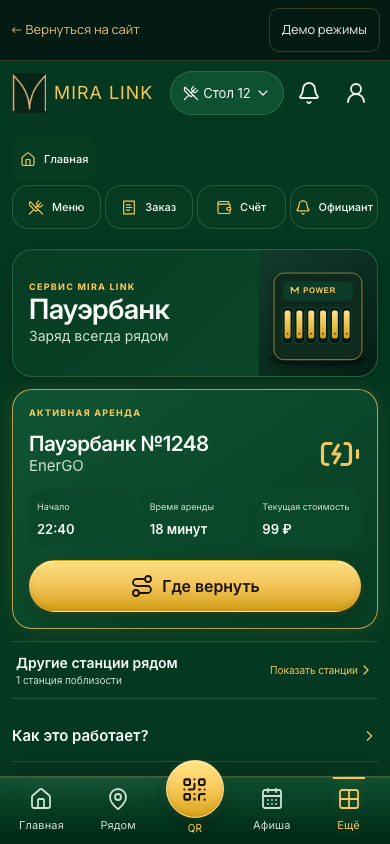
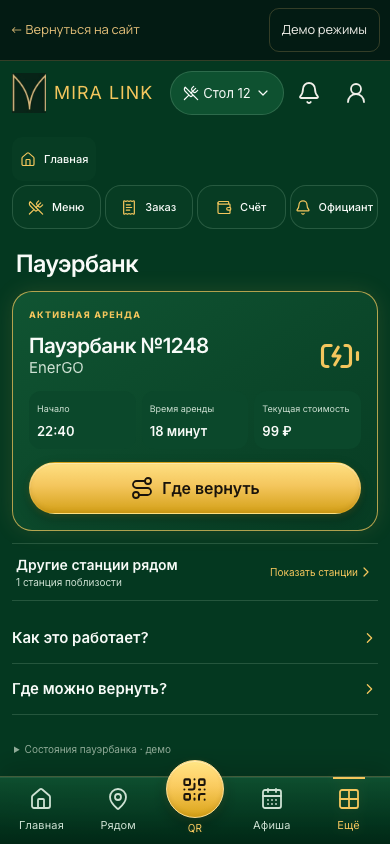
Remove Powerbank hero card

diff --git a/components/guest/guest-powerbank-service.module.css b/components/guest/guest-powerbank-service.module.css
@@ -1,7 +1,6 @@
 .screen{display:grid;min-width:0;gap:12px;color:var(--guest-text-primary)}
 .screen :is(h2,h3,p){margin:0}.screen button{font-family:inherit}.loading{min-height:180px;display:grid;place-items:center;color:var(--guest-text-secondary)}
-.hero{display:grid;grid-template-columns:minmax(0,1fr) 118px;min-height:126px;align-items:center;overflow:hidden;border:1px solid var(--guest-border);border-radius:20px;background:linear-gradient(135deg,var(--guest-surface),var(--guest-surface-soft));box-shadow:var(--card-shadow)}
-.hero>div{padding:16px}.hero span,.stateLabel,.contextLabel{display:block;color:var(--guest-accent);font-size:9px;line-height:13px;font-weight:750;letter-spacing:.14em}.hero h2{font-size:28px;line-height:33px}.hero p{color:var(--guest-text-secondary);font-size:14px}.hero img{width:118px;height:126px;object-fit:cover}
+.pageTitle{padding:0 4px}.pageTitle h2{font-size:24px;line-height:30px}.stateLabel,.contextLabel{display:block;color:var(--guest-accent);font-size:9px;line-height:13px;font-weight:750;letter-spacing:.14em}
 .context{display:flex;min-height:52px;align-items:center;justify-content:space-between;gap:12px;padding:2px 4px}.context>div{display:grid}.context>div>span,.context small{color:var(--guest-text-secondary);font-size:11px}.context>div>strong{font-size:16px}.context>span{display:flex;align-items:center;gap:5px;color:var(--guest-accent);font-size:12px;white-space:nowrap}.context svg{width:16px}
 .offers{display:grid;gap:10px}.offer{display:grid;grid-template-columns:100px minmax(0,1fr);min-height:166px;overflow:hidden;border:1px solid var(--guest-border);border-radius:18px;background:var(--guest-surface)}.offer>img{width:100px;height:100%;object-fit:cover}.offerBody{display:grid;min-width:0;gap:7px;padding:11px}.offerHeading{display:flex;align-items:start;justify-content:space-between;gap:8px}.offerHeading>div{display:grid;min-width:0}.offerHeading strong{font-size:17px}.offerHeading span{color:var(--guest-text-muted);font-size:10px}.offerHeading em{flex:0 0 auto;padding:3px 6px;border:1px solid var(--guest-border-strong);border-radius:999px;color:var(--guest-accent);font-size:8px;font-style:normal}.offerBody>p{display:flex;align-items:center;gap:4px;color:var(--guest-text-secondary);font-size:11px;line-height:15px}.offerBody>p svg{width:14px}.availability{display:flex;align-items:end;justify-content:space-between;gap:8px}.availability>span{display:flex;align-items:center;gap:3px;color:var(--guest-text-secondary);font-size:10px}.availability>span:last-child{display:grid;text-align:right}.availability strong{color:var(--guest-text-primary);font-size:14px}.availability small{color:var(--guest-text-muted);font-size:9px}.availability svg{width:14px;color:var(--guest-accent)}.offerBody>button{min-height:44px!important;padding-block:6px!important;font-size:13px!important}
 .actionRow{display:flex;width:100%;min-height:58px;align-items:center;justify-content:space-between;gap:12px;padding:8px 4px;border:0;border-block:1px solid var(--guest-border);border-radius:0;color:var(--guest-text-primary);background:transparent;text-align:left}.actionRow>span:first-child{display:grid}.actionRow strong{font-size:14px}.actionRow small{color:var(--guest-text-secondary);font-size:10px}.actionRow>span:last-child{display:flex;align-items:center;color:var(--guest-accent);font-size:10px;white-space:nowrap}.actionRow svg{width:16px}
@@ -12,4 +11,4 @@
 .demoTools{padding:0 2px;color:var(--guest-text-muted)}.demoTools summary{min-height:44px;align-content:center;cursor:pointer;font-size:10px}.demoTools label{display:grid;gap:5px;padding-bottom:10px;font-size:10px}.demoTools select{min-height:44px;border:1px solid var(--guest-border);border-radius:12px;padding:8px;color:var(--guest-text-primary);background:var(--guest-surface)}
 .confirmation{display:grid;gap:12px}.confirmation>img{width:100%;height:132px;object-fit:cover;border-radius:14px}.confirmation>div{display:grid}.confirmation>div>span,.confirmation small{color:var(--guest-text-secondary);font-size:11px}.confirmation>div>strong{font-size:18px}.confirmation>p{display:flex;align-items:flex-start;gap:7px;padding:10px;border-radius:12px;background:var(--guest-surface-soft);color:var(--guest-text-secondary);font-size:11px;line-height:16px}.confirmation>p svg{width:18px;flex:0 0 18px;color:var(--guest-accent)}.confirmation>button{width:100%}
 .nearbyList{display:grid;gap:8px}.nearbyList article{display:grid;grid-template-columns:36px minmax(0,1fr) auto;align-items:center;gap:8px;padding:10px;border:1px solid var(--guest-border);border-radius:14px;background:var(--guest-surface)}.nearbyList article>svg{width:22px;color:var(--guest-accent)}.nearbyList article>div{display:grid}.nearbyList span{color:var(--guest-text-secondary);font-size:10px}.nearbyList article>span:last-child{white-space:nowrap}
-@container guest-product-surface (max-width:380px){.hero{grid-template-columns:minmax(0,1fr) 104px}.hero img{width:104px}.offer{grid-template-columns:92px minmax(0,1fr)}.offer>img{width:92px}.offerHeading em{display:none}.rentalFacts{grid-template-columns:1fr 1fr}.rentalFacts>span:last-child{grid-column:1/-1}.actionRow>span:last-child{font-size:0}.actionRow>span:last-child svg{width:20px}.emptyState>div{grid-template-columns:1fr}}
+@container guest-product-surface (max-width:380px){.offer{grid-template-columns:92px minmax(0,1fr)}.offer>img{width:92px}.offerHeading em{display:none}.rentalFacts{grid-template-columns:1fr 1fr}.rentalFacts>span:last-child{grid-column:1/-1}.actionRow>span:last-child{font-size:0}.actionRow>span:last-child svg{width:20px}.emptyState>div{grid-template-columns:1fr}}

diff --git a/tests/e2e/guest-powerbank.spec.ts b/tests/e2e/guest-powerbank.spec.ts
@@ -27,6 +27,8 @@ test('Powerbank 2.1 EnerGO-only launch states and rental flow',async({page})=>{
  await page.getByRole('button',{name:'Сканировать QR стола №12',exact:true}).click();
  await page.getByRole('button',{name:'Пауэрбанк',exact:true}).click();
  await expect(page.getByRole('heading',{name:'Пауэрбанк',exact:true})).toBeVisible();
+ await expect(page.getByText('Заряд всегда рядом',{exact:true})).toHaveCount(0);
+ await expect(page.getByText('СЕРВИС MIRA LINK',{exact:true})).toHaveCount(0);
  await expect(page.getByText('MIRA Restaurant',{exact:true}).last()).toBeVisible();
  await expect(page.getByRole('region',{name:'Текущее заведение'}).getByText('Стол 12',{exact:true})).toBeVisible();
  await expect(page.getByLabel('Предложение EnerGO')).toContainText('6 доступно');

diff --git a/components/guest/guest-powerbank-service.tsx b/components/guest/guest-powerbank-service.tsx
@@ -63,10 +63,7 @@ export function GuestPowerbankService({venue,activeRentalId,qrTerminalId,busy=fa
  const showReturn=scenario==='return'&&view.activeRental;
 
  return <section className={styles.screen} aria-labelledby="powerbank-title" data-powerbank-scenario={scenario}>
-  <header className={styles.hero}>
-   <div><span>СЕРВИС MIRA LINK</span><h2 id="powerbank-title">Пауэрбанк</h2><p>Заряд всегда рядом</p></div>
-   <img src="/images/powerbank-station-demo.svg" alt="Станция аренды пауэрбанков"/>
-  </header>
+  <header className={styles.pageTitle}><h2 id="powerbank-title">Пауэрбанк</h2></header>
 
   {showRental&&<section className={styles.activeRental} aria-labelledby="active-rental-title">
    <span className={styles.stateLabel}>АКТИВНАЯ АРЕНДА</span>
